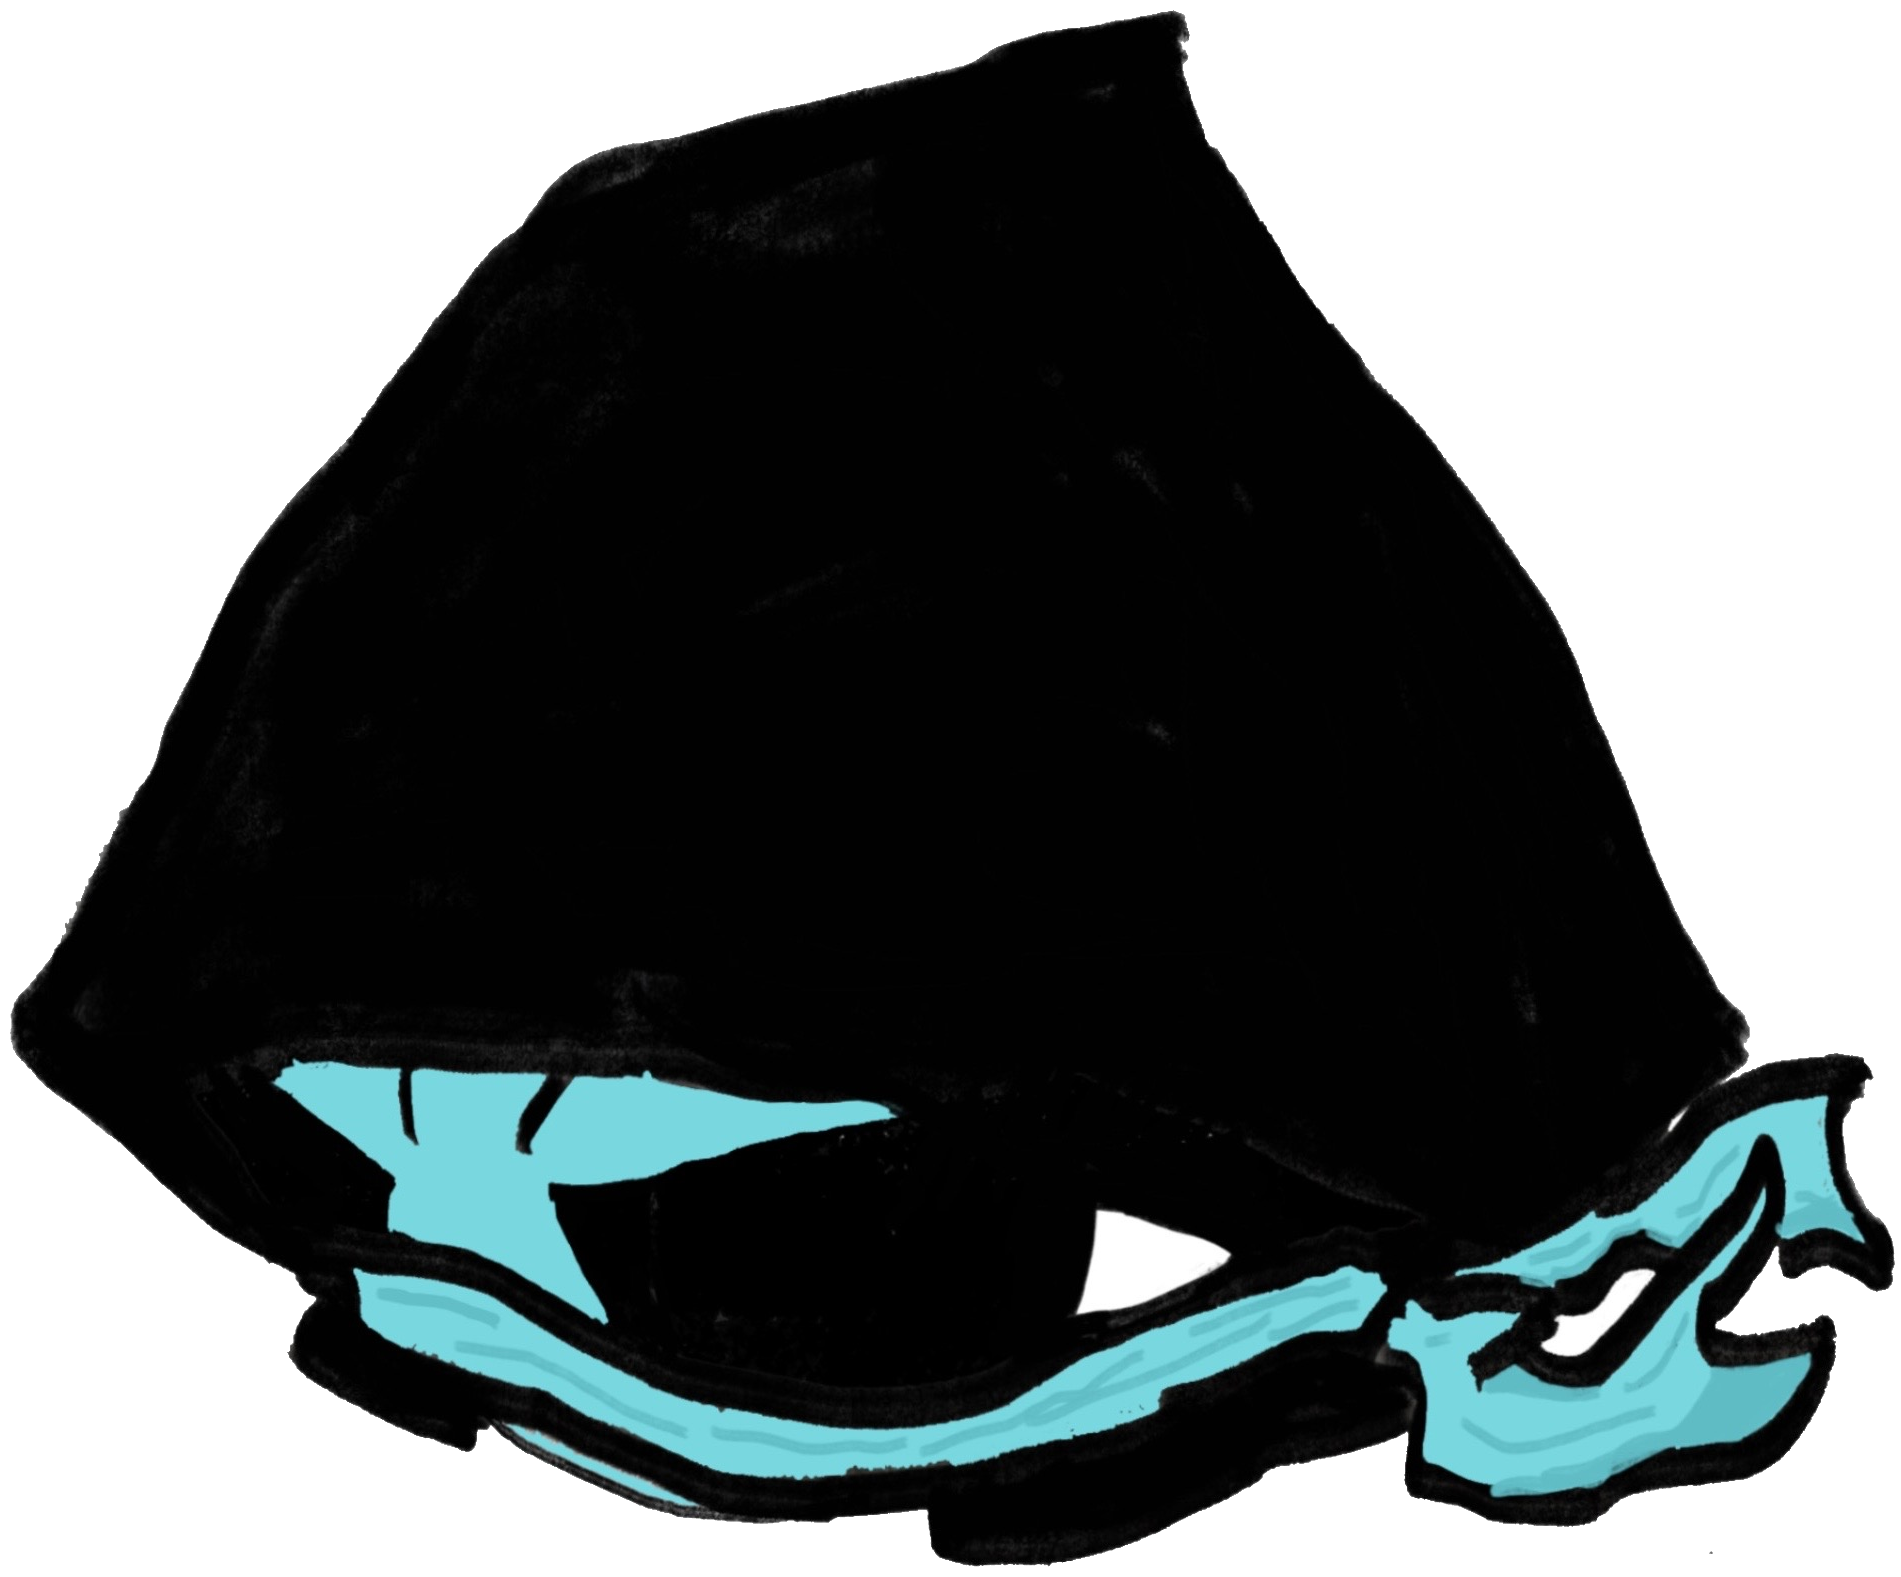
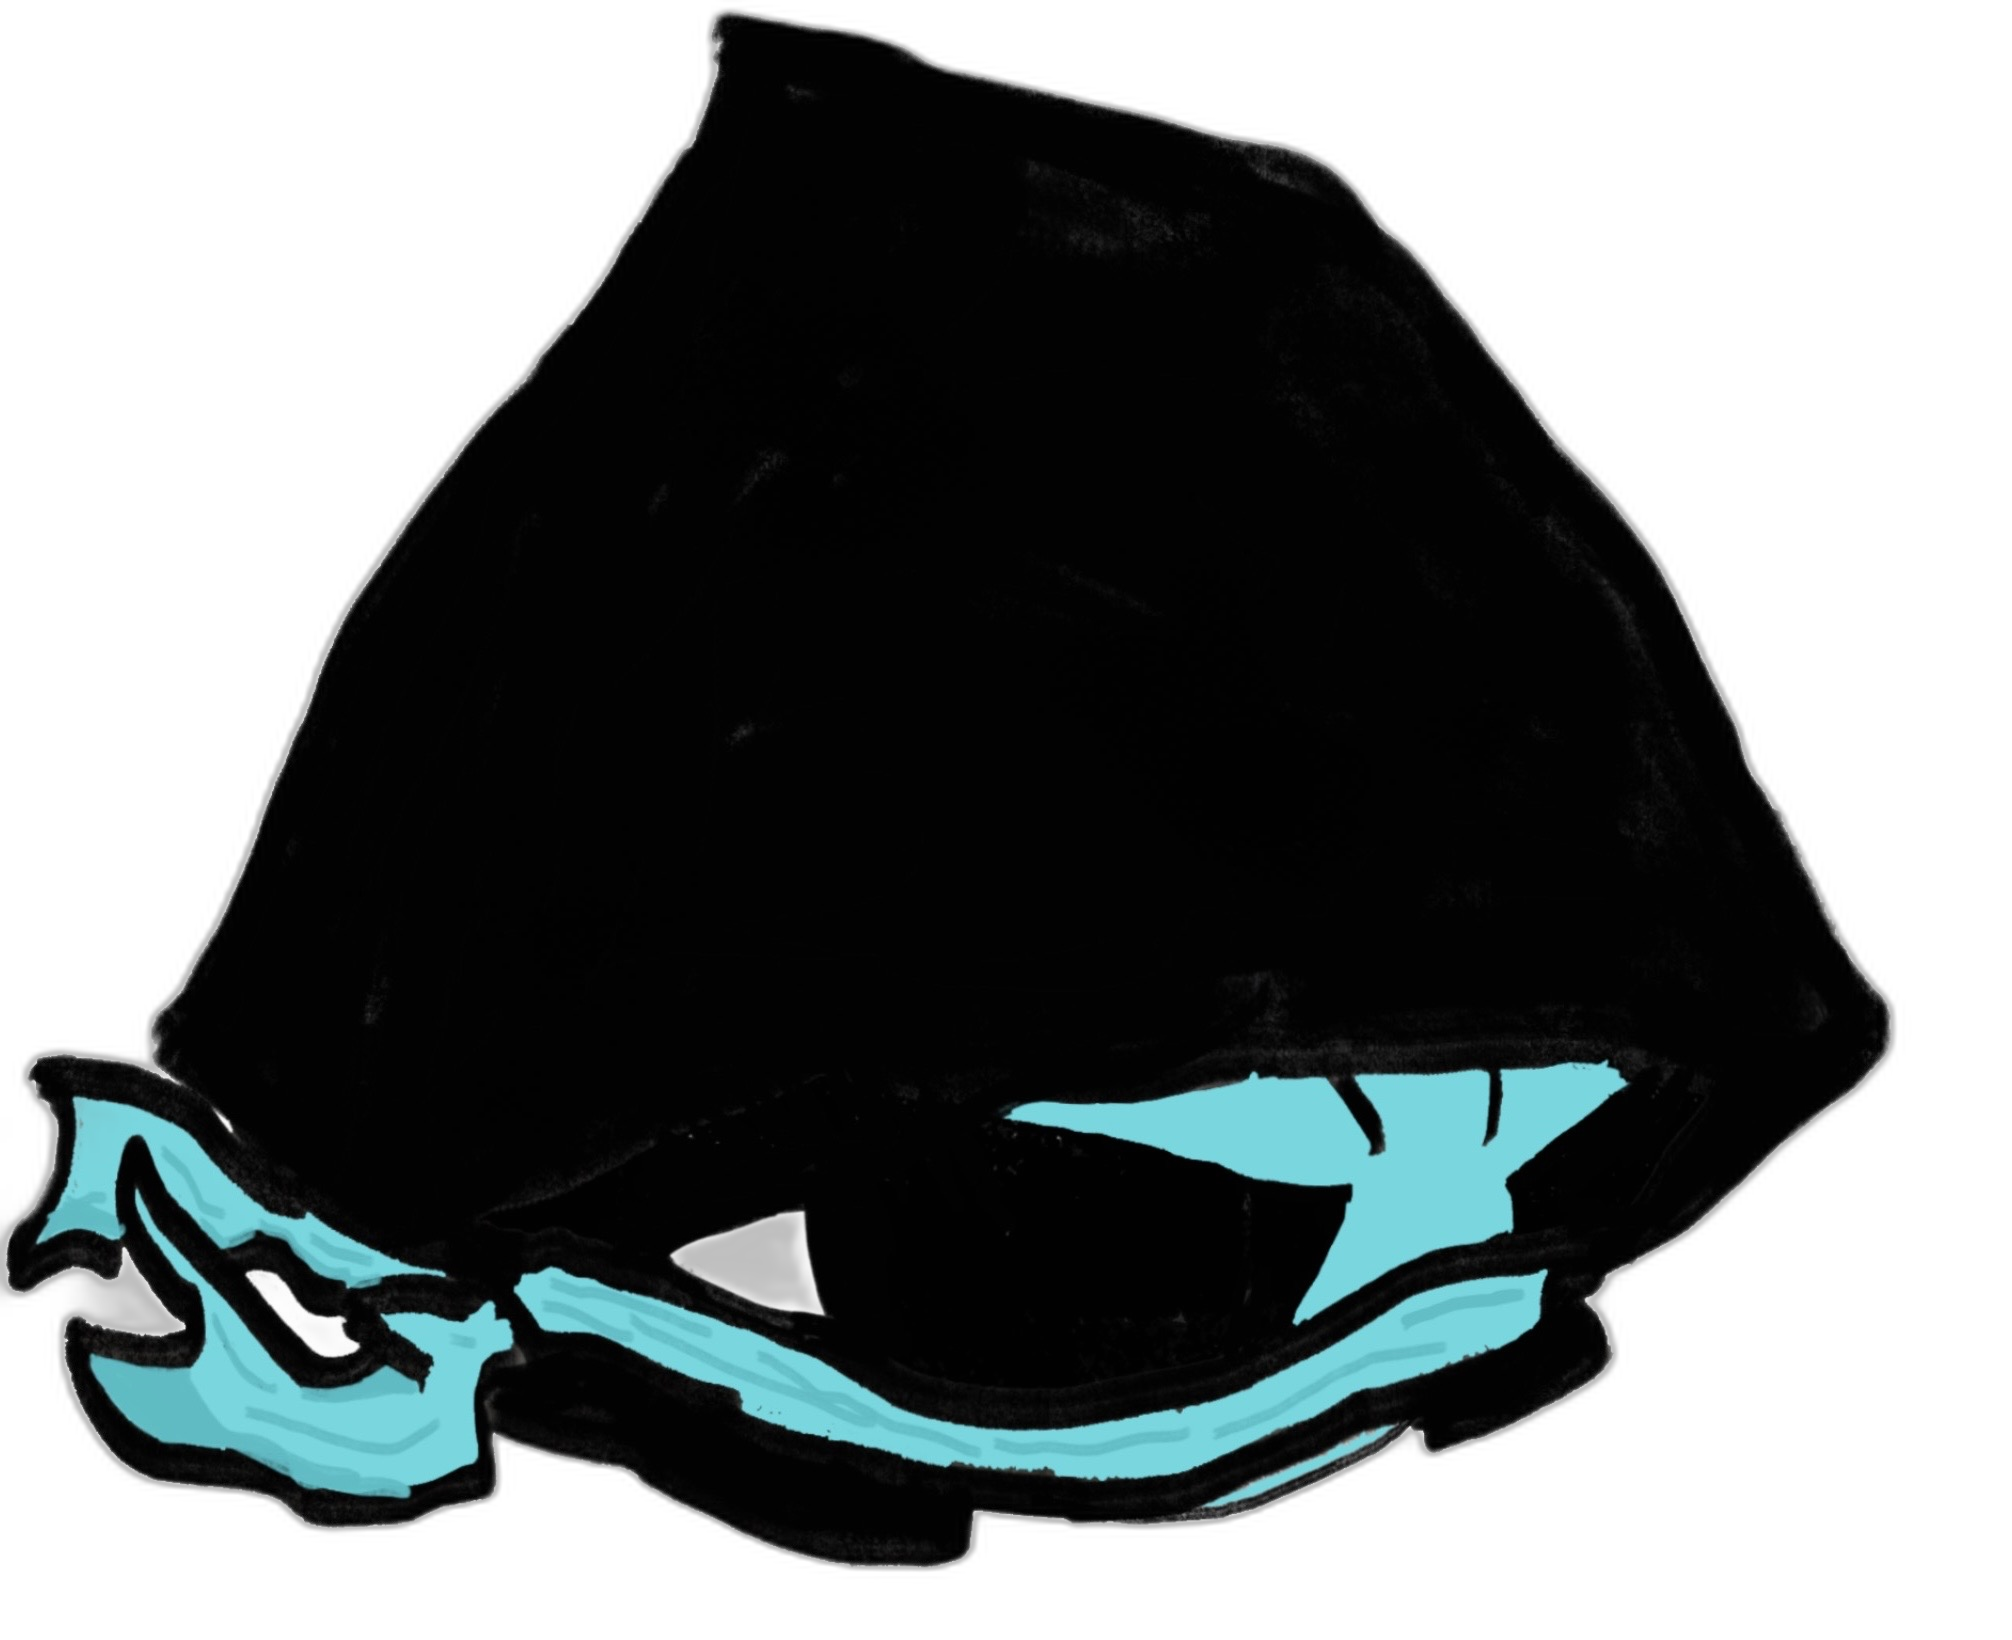
新增角色圖片資源並更新繪製邏輯以支援角色顯示

Changed region(s): [[0.0, 0.0, 1.0, 0.9943]]

diff --git a/Ronnie/002/index.html b/Ronnie/002/index.html
@@ -145,6 +145,10 @@ let pl = {
   deathTimer: 0,
 };
 
+// ── 角色圖片 ──────────────────────────────────────────────────────────────────
+const characterImg = new Image();
+characterImg.src = 'character.png';
+
 // ── 鏡頭 ──────────────────────────────────────────────────────────────────────
 let cam = { x: 0, y: 0 };
 
@@ -466,55 +470,17 @@ function drawGoal() {
   cx.restore();
 }
 
-// 繪製火柴人
+// 繪製角色圖片 (向右不翻轉，向左水平翻轉)
 function drawPlayer() {
   if (!pl.alive) return;
   const sx = pl.x + pl.w / 2 - cam.x;
   const sy = pl.y - cam.y;
   cx.save();
   cx.translate(sx, sy);
-  if (pl.facing === -1) cx.scale(-1, 1);
+  if (pl.facing === -1) cx.scale(-1, 1); // 向左時水平翻轉
 
-  const moving    = Math.abs(pl.vx) > 0.5 && pl.onGround;
-  const legSwing  = moving ? Math.sin(pl.animTick * 0.22) * 10 : 0;
-  const armSwing  = moving ? Math.sin(pl.animTick * 0.22 + Math.PI) * 7 : 0;
-  const wallSlide = pl.onWall !== 0 && !pl.onGround;
-
-  // 頭部 (橘色)
-  cx.fillStyle = '#ff8c00';
-  cx.beginPath(); cx.arc(0, 9, 9, 0, Math.PI * 2); cx.fill();
-  // 頭部高光
-  cx.fillStyle = 'rgba(255,215,110,0.45)';
-  cx.beginPath(); cx.arc(-2, 5, 4, 0, Math.PI * 2); cx.fill();
-
-  // 身體骨架
-  cx.strokeStyle = '#111';
-  cx.lineWidth = 2.8;
-  cx.lineCap = 'round';
-  cx.lineJoin = 'round';
-
-  // 軀幹
-  cx.beginPath(); cx.moveTo(0, 18); cx.lineTo(0, 33); cx.stroke();
-
-  // 手臂
-  if (wallSlide) {
-    // 爬牆動作：手伸向牆
-    cx.beginPath(); cx.moveTo(0, 22); cx.lineTo(14, 17); cx.stroke();
-    cx.beginPath(); cx.moveTo(0, 22); cx.lineTo(-7, 28); cx.stroke();
-  } else {
-    cx.beginPath(); cx.moveTo(0, 22); cx.lineTo( 12 + armSwing, 30); cx.stroke();
-    cx.beginPath(); cx.moveTo(0, 22); cx.lineTo(-12 - armSwing, 30); cx.stroke();
-  }
-
-  // 腿
-  if (wallSlide) {
-    cx.beginPath(); cx.moveTo(0, 33); cx.lineTo(7,  44); cx.stroke();
-    cx.beginPath(); cx.moveTo(0, 33); cx.lineTo(-3, 44); cx.stroke();
-  } else {
-    cx.beginPath(); cx.moveTo(0, 33); cx.lineTo(-9 + legSwing,  44); cx.stroke();
-    cx.beginPath(); cx.moveTo(0, 33); cx.lineTo( 9 - legSwing,  44); cx.stroke();
-  }
-
+  const dw = 54, dh = 44;
+  cx.drawImage(characterImg, -dw / 2, -10, dw, dh);
   cx.restore();
 }
 
